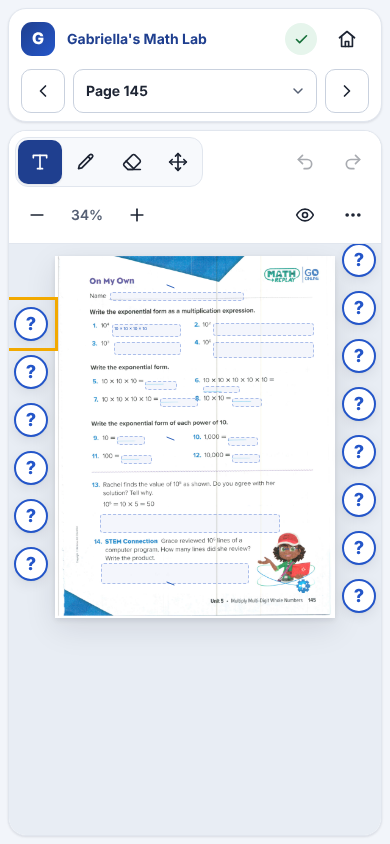
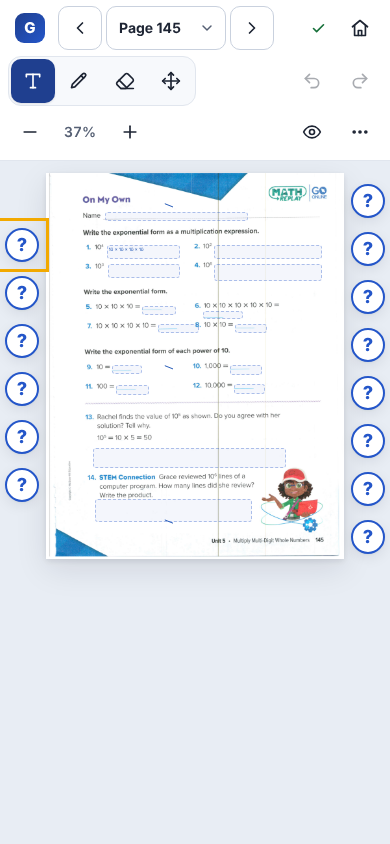
GML-006: Merge the top bars into one slim bar
Per owner feedback that the menus were too big: the title, page navigation
and writing tools now share one bar, the tools are icons with tooltips, and
controls are 36px with a mouse (44px kept on touch screens). The textbook
and the right-hand solution pane fill the rest of the screen.

Claude-Session: https://claude.ai/code/session_018dbFcDMd4vdEjZrPDaWnnM

diff --git a/lesson-5-1/style.css b/lesson-5-1/style.css
@@ -112,30 +112,32 @@ select { appearance: none; -webkit-appearance: none; justify-content: flex-start
 summary { list-style: none; }
 summary::-webkit-details-marker { display: none; }
 
-/* 4. App layout ---------------------------------------------------------- */
+/* 4. App layout: one slim bar on top, then the page (and the solution pane) */
 @media screen {
-  body { height: 100dvh; display: flex; flex-direction: column; gap: var(--s-3); padding: var(--s-3); overflow: hidden; }
+  body { height: 100dvh; display: flex; flex-direction: column; overflow: hidden; }
 }
-.app-header { flex: none; display: grid; grid-template-columns: minmax(0, 1fr) auto minmax(0, 1fr); align-items: center; gap: var(--s-3); padding: var(--s-2) var(--s-3); }
-.brand { display: flex; align-items: center; gap: var(--s-3); min-width: 0; min-height: var(--tap); text-decoration: none; border-radius: var(--r-sm); }
-.brand-mark { display: grid; place-items: center; width: 38px; height: 38px; flex: none; border-radius: 11px; background: linear-gradient(135deg, var(--c-primary), var(--c-primary-600)); color: #fff; font-weight: 800; font-size: 18px; }
-.brand-text { display: grid; min-width: 0; line-height: 1.2; }
-.brand-name { font-weight: 720; color: var(--c-primary); white-space: nowrap; overflow: hidden; text-overflow: ellipsis; }
+.app-header { flex: none; display: flex; align-items: center; flex-wrap: wrap; gap: var(--s-2) var(--s-4); padding: 6px var(--s-3); background: var(--c-surface); border-bottom: 1px solid var(--c-border); }
+.brand { display: flex; align-items: center; justify-content: center; gap: var(--s-2); min-width: var(--tap); min-height: var(--tap); text-decoration: none; border-radius: var(--r-sm); }
+.brand-mark { display: grid; place-items: center; width: 30px; height: 30px; flex: none; border-radius: 9px; background: linear-gradient(135deg, var(--c-primary), var(--c-primary-600)); color: #fff; font-weight: 800; font-size: 15px; }
+.brand-text { display: grid; min-width: 0; line-height: 1.15; }
+.brand-name { font-weight: 720; font-size: var(--fs-sm); color: var(--c-primary); white-space: nowrap; }
 .brand-sub { font-size: var(--fs-xs); color: var(--c-ink-2); white-space: nowrap; }
-.pager { display: flex; align-items: center; gap: var(--s-2); }
-.page-select select { min-width: 140px; font-weight: 650; }
-.header-actions { display: flex; align-items: center; justify-content: flex-end; gap: var(--s-2); min-width: 0; }
-.save-chip { display: inline-flex; align-items: center; gap: 6px; height: 32px; padding: 0 var(--s-3); border-radius: var(--r-pill); background: var(--c-ok-soft); color: var(--c-ok); font-size: var(--fs-xs); font-weight: 600; white-space: nowrap; }
+.pager { display: flex; align-items: center; gap: 4px; }
+.page-select select { min-width: 120px; font-weight: 650; }
+.header-actions { display: flex; align-items: center; gap: 4px; margin-left: auto; }
+.save-chip { display: inline-flex; align-items: center; gap: 4px; color: var(--c-ok); font-size: var(--fs-xs); font-weight: 600; white-space: nowrap; padding: 0 var(--s-2); }
 .save-chip .icon { width: 15px; height: 15px; stroke-width: 2.6; }
-body[data-error="true"] .save-chip { background: var(--c-danger-soft); color: var(--c-danger); }
+body[data-error="true"] .save-chip { color: var(--c-danger); }
 body[data-error="true"] .save-chip .icon { display: none; }
 
 /* 5. Textbook card + toolbar --------------------------------------------- */
-.book-card { flex: 1; min-width: 0; min-height: 0; display: flex; flex-direction: column; overflow: hidden; container: book / inline-size; }
-.toolbar { flex: none; display: flex; align-items: center; flex-wrap: wrap; gap: var(--s-2) var(--s-3); padding: var(--s-2) var(--s-3); border-bottom: 1px solid var(--c-border); background: var(--c-surface); position: relative; z-index: 5; }
+.book-card { flex: 1; min-width: 0; min-height: 0; display: flex; flex-direction: column; overflow: hidden; border-radius: 0; border: 0; box-shadow: none; }
+.toolbar { display: flex; align-items: center; flex-wrap: wrap; gap: 4px var(--s-3); position: relative; z-index: 5; }
 .tool-group { display: flex; align-items: center; gap: 4px; }
 .tool-group + .tool-group { padding-left: var(--s-3); border-left: 1px solid var(--c-border); }
-.tool-end { margin-left: auto; }
+.toolbar .label { position: absolute; width: 1px; height: 1px; overflow: hidden; clip: rect(0 0 0 0); white-space: nowrap; }
+.segmented button, .toggle-chip, .menu summary { padding: 0; width: var(--tap); justify-content: center; }
+.tool-end { }
 .toolbar button { border-color: transparent; background: transparent; }
 .toolbar button:hover:not(:disabled) { background: var(--c-surface-2); border-color: var(--c-border); }
 .segmented { background: var(--c-surface-2); border: 1px solid var(--c-border); border-radius: calc(var(--r-sm) + 3px); padding: 2px; gap: 2px; }
@@ -167,7 +169,7 @@ body[data-error="true"] .save-chip .icon { display: none; }
 .menu-note { padding: var(--s-2) var(--s-3); font-size: var(--fs-xs); color: var(--c-ink-2); }
 
 /* Viewer: the page sits on a calm canvas, centred, with gutters for markers. */
-#viewer { flex: 1; min-height: 0; overflow: auto; overscroll-behavior: contain; position: relative; background: var(--c-canvas); padding: var(--s-5) var(--gutter) calc(var(--s-5) + var(--help-h)); touch-action: pan-x pan-y pinch-zoom; outline: none; }
+#viewer { flex: 1; min-height: 0; overflow: auto; overscroll-behavior: contain; position: relative; background: var(--c-canvas); padding: var(--s-4) var(--gutter) calc(var(--s-4) + var(--help-h)); touch-action: pan-x pan-y pinch-zoom; outline: none; }
 #stage { position: relative; margin: 0 auto; }
 .sheet { position: relative; background: #fff; box-shadow: var(--shadow-page); aspect-ratio: 612 / 792; }
 .source { display: block; width: 100%; height: 100%; user-select: none; pointer-events: none; }
@@ -196,8 +198,8 @@ body[data-mode=pan] #viewer { cursor: grab; touch-action: none; }
 body.original .layer { visibility: hidden; }
 
 /* 6. Solution pane (right side) ------------------------------------------- */
-.workspace { flex: 1; min-height: 0; display: flex; gap: var(--s-3); }
-.help { flex: none; width: 360px; min-height: 0; overflow: auto; overscroll-behavior: contain; padding: var(--s-3) var(--s-4) var(--s-4); display: flex; flex-direction: column; gap: var(--s-4); }
+.workspace { flex: 1; min-height: 0; display: flex; }
+.help { flex: none; width: 340px; border-radius: 0; border-width: 0 0 0 1px; box-shadow: none; min-height: 0; overflow: auto; overscroll-behavior: contain; padding: var(--s-3) var(--s-4) var(--s-4); display: flex; flex-direction: column; gap: var(--s-4); }
 .help-head { display: flex; align-items: center; justify-content: space-between; gap: var(--s-3); }
 .help-head h2 { font-size: var(--fs-xl); font-weight: 740; outline: none; }
 .help-label { display: block; font-size: var(--fs-xs); font-weight: 700; letter-spacing: .05em; text-transform: uppercase; color: var(--c-ink-2); margin-bottom: 4px; }
@@ -220,44 +222,23 @@ dialog::backdrop { background: rgb(15 23 42 / .38); }
 #printRoot { display: none; }
 
 /* 8. Responsive ---------------------------------------------------------- */
-/* The toolbar adapts to the textbook card's own width. */
-@container book (max-width: 1000px) {
-  .tool-end .label { position: absolute; width: 1px; height: 1px; overflow: hidden; clip: rect(0 0 0 0); white-space: nowrap; }
-  .toggle-chip, .menu summary { padding: 0; width: var(--tap); justify-content: center; }
+/* Mouse and trackpad: compact 36px controls. Touch screens keep 44px targets. */
+@media (pointer: fine) {
+  :root { --tap: 36px; }
+  .menu-item { min-height: 36px; }
 }
-@container book (max-width: 860px) {
-  .toolbar .label { position: absolute; width: 1px; height: 1px; overflow: hidden; clip: rect(0 0 0 0); white-space: nowrap; }
-  .segmented button { padding: 0; width: var(--tap); }
-}
-@container book (max-width: 780px) { .zoom .fit-select { display: none; } }
-
-@media (max-width: 860px) {
-  .app-header { grid-template-columns: minmax(0, 1fr) auto; grid-template-areas: "brand actions" "pager pager"; row-gap: var(--s-2); }
-  .brand { grid-area: brand; } .header-actions { grid-area: actions; } .pager { grid-area: pager; }
-  .pager .page-select { flex: 1; } .page-select select { width: 100%; }
-}
-@media (max-width: 680px) {
+@media (max-width: 1100px) { .help { width: 300px; } .brand-text { display: none; } }
+@media (max-width: 760px) {
   :root { --gutter: 46px; }
-  body { padding: var(--s-2); gap: var(--s-2); }
-  .brand-mark { width: 34px; height: 34px; font-size: 16px; }
-  .brand-sub { display: none; }
-  .brand-name { white-space: normal; font-size: var(--fs-sm); line-height: 1.15; }
-  .home-link .label { display: none; }
-  .home-link { width: var(--tap); padding: 0; }
-  .save-chip { width: 32px; padding: 0; justify-content: center; }
-  .save-chip #saveStatus { position: absolute; width: 1px; height: 1px; overflow: hidden; clip: rect(0 0 0 0); }
-  .toolbar { padding: 6px; gap: 6px; justify-content: space-between; }
+  .app-header { gap: 6px; padding: 6px var(--s-2); }
+  .toolbar { order: 3; width: 100%; justify-content: space-between; }
   .tool-group + .tool-group { padding-left: 0; border-left: 0; }
-  .tool-end { margin-left: 0; }
+  .save-chip #saveStatus { position: absolute; width: 1px; height: 1px; overflow: hidden; clip: rect(0 0 0 0); }
   .menu-card { position: fixed; right: var(--s-2); left: var(--s-2); top: auto; width: auto; bottom: var(--s-2); max-height: 70dvh; overflow: auto; }
   #viewer { padding: var(--s-3) var(--gutter) calc(var(--s-3) + var(--help-h)); }
+  .help { position: fixed; z-index: 30; left: 0; right: 0; bottom: 0; width: auto; max-height: 52dvh; border-radius: var(--r-lg) var(--r-lg) 0 0; border-width: 1px 0 0; box-shadow: var(--shadow-lg); padding-bottom: calc(var(--s-4) + env(safe-area-inset-bottom, 0px)); }
 }
-@media (max-width: 380px) { .brand-text { display: none; } }
-/* Tablets: narrower pane. Phones: the pane becomes a bottom sheet. */
-@media (max-width: 1100px) { .help { width: 300px; } }
-@media (max-width: 760px) {
-  .help { position: fixed; z-index: 30; left: 0; right: 0; bottom: 0; width: auto; max-height: 52dvh; border-radius: var(--r-lg) var(--r-lg) 0 0; box-shadow: var(--shadow-lg); padding-bottom: calc(var(--s-4) + env(safe-area-inset-bottom, 0px)); }
-}
+@media (max-width: 380px) { .zoom #zoomLabel { display: none; } }
 
 @media (prefers-reduced-motion: reduce) {
   *, *::before, *::after { transition: none !important; animation: none !important; }

diff --git a/lesson-5-1/index.html b/lesson-5-1/index.html
@@ -38,63 +38,61 @@
   <symbol id="i-fit" viewBox="0 0 24 24"><path d="M8 3H5a2 2 0 0 0-2 2v3"/><path d="M21 8V5a2 2 0 0 0-2-2h-3"/><path d="M3 16v3a2 2 0 0 0 2 2h3"/><path d="M16 21h3a2 2 0 0 0 2-2v-3"/></symbol>
 </svg>
 
-<!-- Top bar: title, page navigation, save status -->
-<header class="card app-header">
+<!-- One slim top bar: title, page navigation, writing tools, save status -->
+<header class="app-header">
   <a class="brand" href="../index.html" aria-label="Gabriella's Math Lab, return to home">
     <span class="brand-mark" aria-hidden="true">G</span>
-    <span class="brand-text"><span class="brand-name">Gabriella's Math Lab</span><span class="brand-sub">Chapter 5 · Lesson 5-1</span></span>
+    <span class="brand-text"><span class="brand-name">Gabriella's Math Lab</span><span class="brand-sub">Lesson 5-1</span></span>
   </a>
   <nav class="pager" aria-label="Page navigation">
     <button id="prev" class="btn btn-icon" aria-label="Previous page"><svg class="icon" aria-hidden="true"><use href="#i-left"/></svg></button>
     <label class="page-select"><span class="sr-only">Textbook page</span><select id="pages" aria-label="Textbook page"></select></label>
     <button id="next" class="btn btn-icon" aria-label="Next page"><svg class="icon" aria-hidden="true"><use href="#i-right"/></svg></button>
   </nav>
+  <div class="toolbar" role="toolbar" aria-label="Writing and reading tools">
+  <div class="tool-group segmented" role="group" aria-label="Input mode">
+    <button data-mode="type" aria-pressed="true" title="Type an answer"><svg class="icon" aria-hidden="true"><use href="#i-type"/></svg><span class="label">Type</span></button>
+    <button data-mode="pen" aria-pressed="false" title="Write with a pencil"><svg class="icon" aria-hidden="true"><use href="#i-pencil"/></svg><span class="label">Pencil</span></button>
+    <button data-mode="eraser" aria-pressed="false" title="Erase handwriting"><svg class="icon" aria-hidden="true"><use href="#i-eraser"/></svg><span class="label">Eraser</span></button>
+    <button data-mode="pan" aria-pressed="false" title="Move the page"><svg class="icon" aria-hidden="true"><use href="#i-move"/></svg><span class="label">Pan</span></button>
+  </div>
+  <div class="tool-group" role="group" aria-label="History">
+    <button id="undo" class="btn btn-icon" aria-label="Undo" title="Undo"><svg class="icon" aria-hidden="true"><use href="#i-undo"/></svg></button>
+    <button id="redo" class="btn btn-icon" aria-label="Redo" title="Redo"><svg class="icon" aria-hidden="true"><use href="#i-redo"/></svg></button>
+  </div>
+  <div class="tool-group zoom" role="group" aria-label="Zoom">
+    <button id="zoomOut" class="btn btn-icon" aria-label="Zoom out" title="Zoom out"><svg class="icon" aria-hidden="true"><use href="#i-minus"/></svg></button>
+    <output id="zoomLabel" aria-live="polite"></output>
+    <button id="zoomIn" class="btn btn-icon" aria-label="Zoom in" title="Zoom in"><svg class="icon" aria-hidden="true"><use href="#i-plus"/></svg></button>
+  </div>
+  <select id="fit" aria-label="Page zoom" hidden><option value="width">Fit width</option><option value="page">Fit page</option><option value="actual">100%</option></select>
+  <div class="tool-group tool-end">
+    <label class="toggle-chip" title="Show only the original page (hides the ? buttons)"><input id="original" type="checkbox"><svg class="icon" aria-hidden="true"><use href="#i-eye"/></svg><span class="label">Original only</span></label>
+    <details class="menu">
+        <summary aria-label="More options"><svg class="icon" aria-hidden="true"><use href="#i-more"/></svg><span class="label">More</span></summary>
+        <div class="card menu-card">
+          <p class="menu-title">Your work</p>
+          <button id="save" class="menu-item"><svg class="icon" aria-hidden="true"><use href="#i-save"/></svg>Save now</button>
+          <button id="print" class="menu-item"><svg class="icon" aria-hidden="true"><use href="#i-print"/></svg>Print lesson / Save PDF</button>
+          <button id="export" class="menu-item"><svg class="icon" aria-hidden="true"><use href="#i-download"/></svg>Export backup</button>
+          <label class="menu-item file"><svg class="icon" aria-hidden="true"><use href="#i-upload"/></svg>Restore backup<input id="import" type="file" accept="application/json"></label>
+          <hr>
+          <button id="resetZoom" class="menu-item"><svg class="icon" aria-hidden="true"><use href="#i-fit"/></svg>Reset zoom</button>
+          <button id="clear" class="menu-item danger"><svg class="icon" aria-hidden="true"><use href="#i-trash"/></svg>Clear this page…</button>
+          <p class="menu-note">Work saves automatically in this browser. Export a backup to keep a separate copy.</p>
+        </div>
+      </details>
+  </div>
+</div>
   <div class="header-actions">
-    <span class="save-chip"><svg class="icon" aria-hidden="true"><use href="#i-check"/></svg><span id="saveStatus" role="status">Loading…</span></span>
-    <a class="btn btn-ghost home-link" href="../index.html"><svg class="icon" aria-hidden="true"><use href="#i-home"/></svg><span class="label">Home</span></a>
+    <span class="save-chip" title="Your work saves automatically"><svg class="icon" aria-hidden="true"><use href="#i-check"/></svg><span id="saveStatus" role="status">Loading…</span></span>
+    <a class="btn btn-icon btn-ghost home-link" href="../index.html" aria-label="Home" title="Home"><svg class="icon" aria-hidden="true"><use href="#i-home"/></svg></a>
   </div>
 </header>
 
 <div class="workspace">
 <!-- The textbook -->
 <section class="card book-card" aria-label="Textbook">
-  <div class="toolbar" role="toolbar" aria-label="Writing and reading tools">
-    <div class="tool-group segmented" role="group" aria-label="Input mode">
-      <button data-mode="type" aria-pressed="true" title="Type an answer"><svg class="icon" aria-hidden="true"><use href="#i-type"/></svg><span class="label">Type</span></button>
-      <button data-mode="pen" aria-pressed="false" title="Write with a pencil"><svg class="icon" aria-hidden="true"><use href="#i-pencil"/></svg><span class="label">Pencil</span></button>
-      <button data-mode="eraser" aria-pressed="false" title="Erase handwriting"><svg class="icon" aria-hidden="true"><use href="#i-eraser"/></svg><span class="label">Eraser</span></button>
-      <button data-mode="pan" aria-pressed="false" title="Move the page"><svg class="icon" aria-hidden="true"><use href="#i-move"/></svg><span class="label">Pan</span></button>
-    </div>
-    <div class="tool-group" role="group" aria-label="History">
-      <button id="undo" class="btn btn-icon" aria-label="Undo" title="Undo"><svg class="icon" aria-hidden="true"><use href="#i-undo"/></svg></button>
-      <button id="redo" class="btn btn-icon" aria-label="Redo" title="Redo"><svg class="icon" aria-hidden="true"><use href="#i-redo"/></svg></button>
-    </div>
-    <div class="tool-group zoom" role="group" aria-label="Zoom">
-      <button id="zoomOut" class="btn btn-icon" aria-label="Zoom out" title="Zoom out"><svg class="icon" aria-hidden="true"><use href="#i-minus"/></svg></button>
-      <output id="zoomLabel" aria-live="polite"></output>
-      <button id="zoomIn" class="btn btn-icon" aria-label="Zoom in" title="Zoom in"><svg class="icon" aria-hidden="true"><use href="#i-plus"/></svg></button>
-      <label class="fit-select"><span class="sr-only">Page fit</span>
-        <select id="fit" aria-label="Page zoom"><option value="width">Fit width</option><option value="page">Fit page</option><option value="actual">100%</option></select>
-      </label>
-    </div>
-    <div class="tool-group tool-end">
-      <label class="toggle-chip" title="Show only the original page (hides the ? buttons)"><input id="original" type="checkbox"><svg class="icon" aria-hidden="true"><use href="#i-eye"/></svg><span class="label">Original only</span></label>
-      <details class="menu">
-          <summary aria-label="More options"><svg class="icon" aria-hidden="true"><use href="#i-more"/></svg><span class="label">More</span></summary>
-          <div class="card menu-card">
-            <p class="menu-title">Your work</p>
-            <button id="save" class="menu-item"><svg class="icon" aria-hidden="true"><use href="#i-save"/></svg>Save now</button>
-            <button id="print" class="menu-item"><svg class="icon" aria-hidden="true"><use href="#i-print"/></svg>Print lesson / Save PDF</button>
-            <button id="export" class="menu-item"><svg class="icon" aria-hidden="true"><use href="#i-download"/></svg>Export backup</button>
-            <label class="menu-item file"><svg class="icon" aria-hidden="true"><use href="#i-upload"/></svg>Restore backup<input id="import" type="file" accept="application/json"></label>
-            <hr>
-            <button id="resetZoom" class="menu-item"><svg class="icon" aria-hidden="true"><use href="#i-fit"/></svg>Reset zoom</button>
-            <button id="clear" class="menu-item danger"><svg class="icon" aria-hidden="true"><use href="#i-trash"/></svg>Clear this page…</button>
-            <p class="menu-note">Work saves automatically in this browser. Export a backup to keep a separate copy.</p>
-          </div>
-        </details>
-    </div>
-  </div>
   <main id="viewer" aria-label="Textbook workspace" tabindex="-1"><div id="stage"></div></main>
 </section>
 

diff --git a/docs/gml-006/REPORT.md b/docs/gml-006/REPORT.md
@@ -5,8 +5,9 @@
 ## Design (revised after owner feedback)
 The owner asked for it to be simple: no left pane, no right pane, and a question mark beside each problem that shows the solution when tapped.
 
-- **Top bar:** title, Previous / page selector / Next, save status, Home.
-- **Textbook card:** the full width of the screen. One toolbar: Type, Pencil, Eraser, Pan, Undo, Redo, Zoom, Original only, and a More menu (save, print, backup, restore, reset zoom, clear page).
+- **One slim top bar** (about 54px): title, Previous / page selector / Next, the writing tools as icons (Type, Pencil, Eraser, Pan), Undo, Redo, Zoom, Original only, a More menu (save, print, backup, restore, reset zoom, clear page), save status and Home.
+- **The textbook** fills the rest of the screen.
+- With a mouse, controls are 36px; on touch screens they stay 44px.
 - **A "?" beside each problem** (in the margin, never on the artwork). Tapping it outlines the problem on the page and opens the solution in a pane on the right of the page: the answer, the numbered steps, then a one-line hint. Tapping another "?" swaps the content. Close with the X or Escape; focus returns to that "?".
 - **Original only** hides every "?" and the outline.
 - On phones (760px and narrower) there is no room for a right-hand pane, so the solution opens as a bottom sheet. The "?" buttons are spaced so they never overlap.
